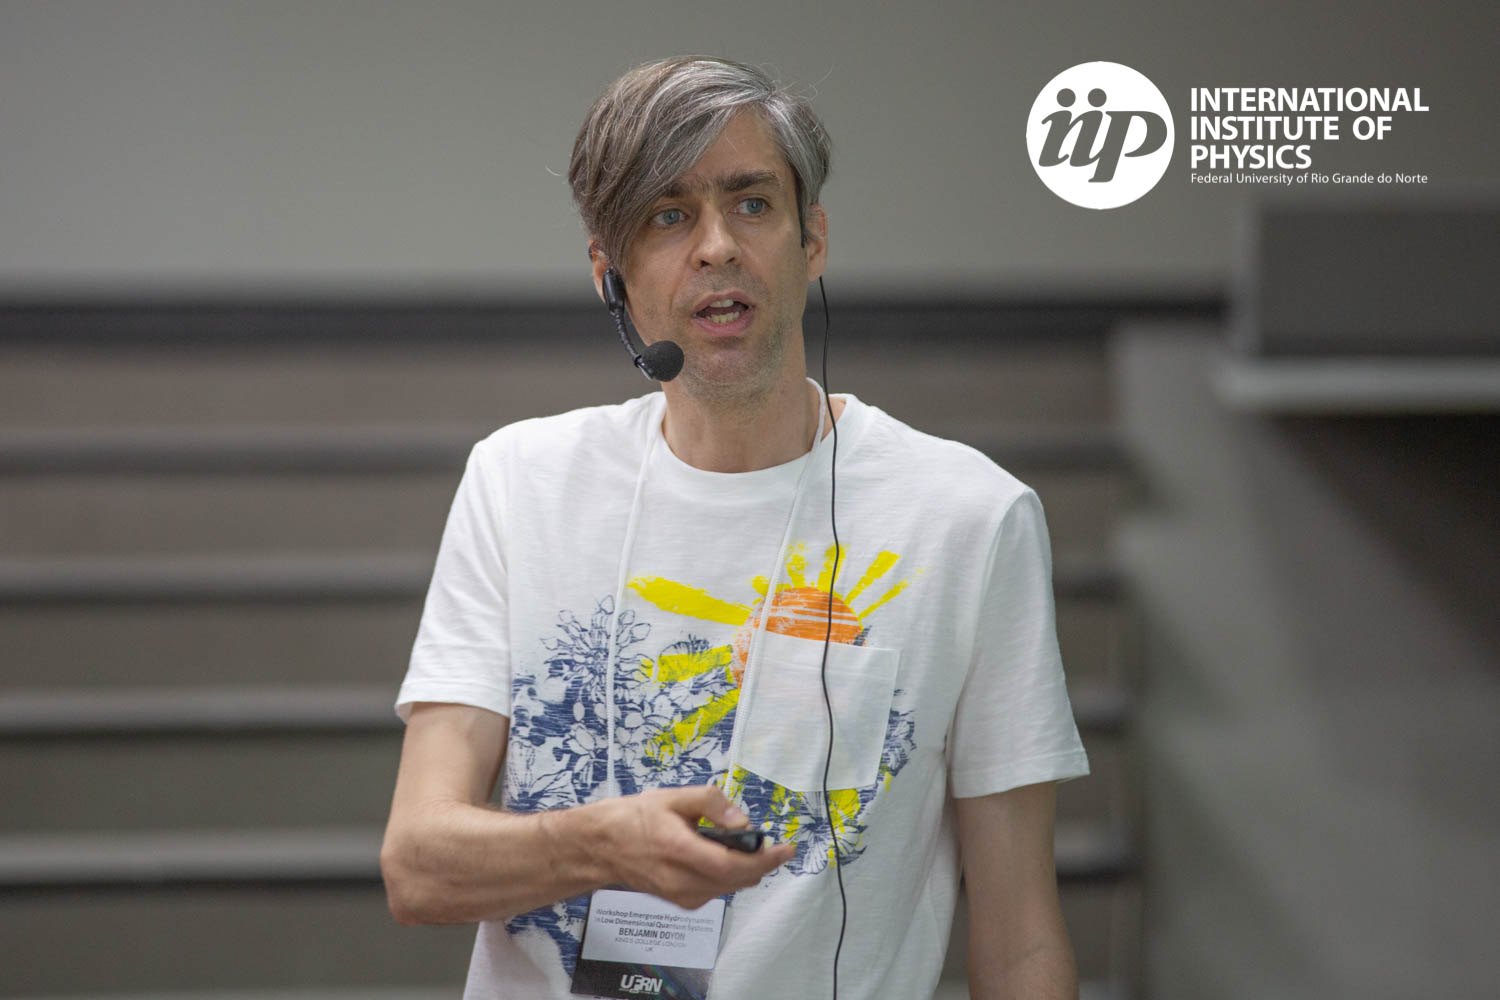
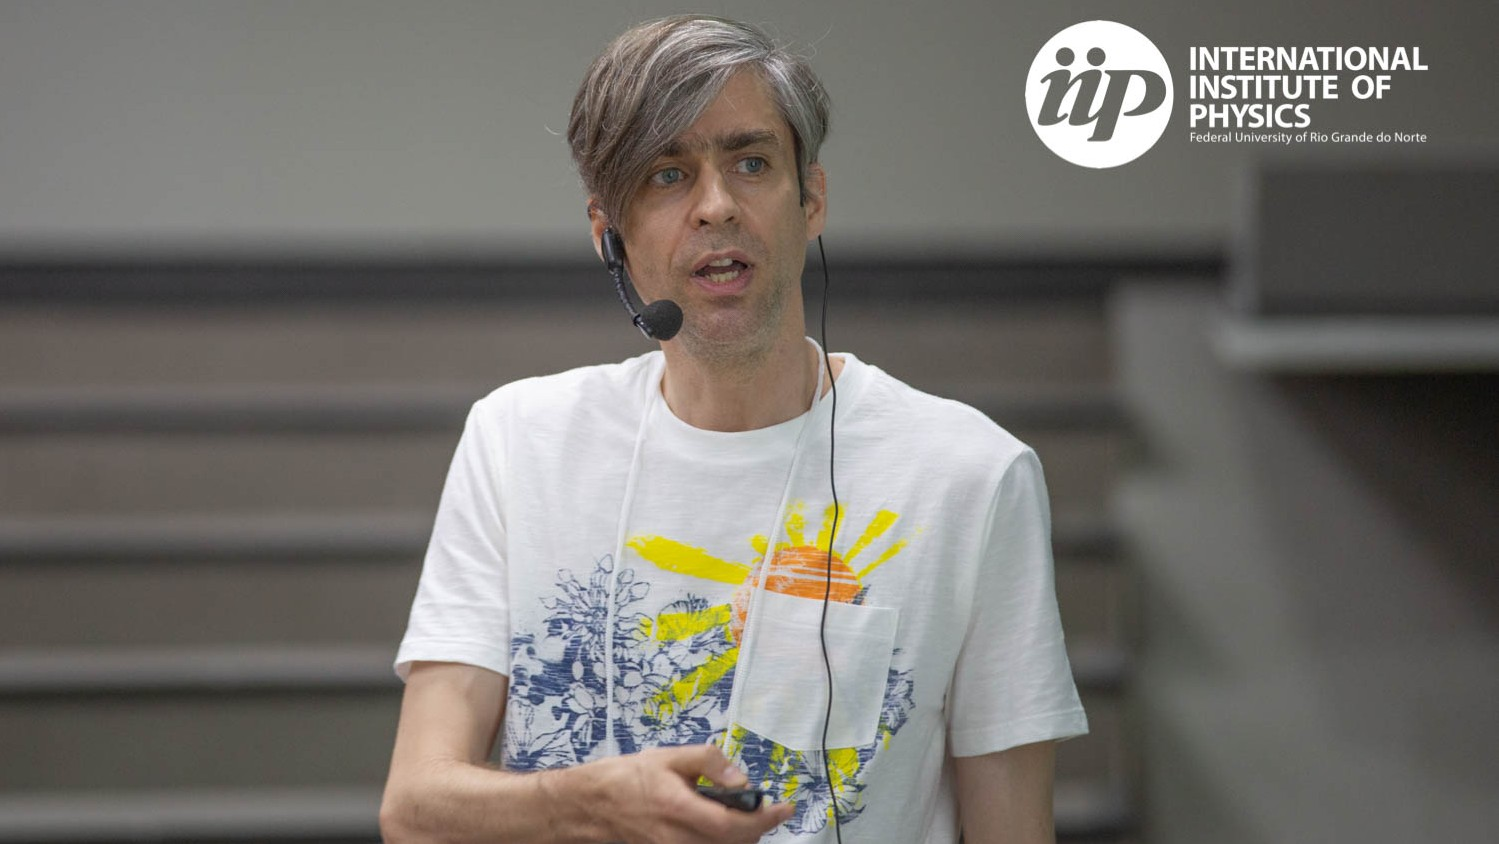
Picture corrected

diff --git a/index.html b/index.html
@@ -3420,7 +3420,7 @@
     
     
     <a href="https://www.kcl.ac.uk/noneqsys/seminars-and-videos/past-seminars-and-videos" target="_blank" rel="noopener" class="card-image hover-overlay">
-      <img src="/talks/canes/featured_hu2315cc76963bb257500ae153c89c1543_184882_550x0_resize_q75_lanczos.jpg" alt="The CANES seminar series" class="img-responsive" loading="lazy">
+      <img src="/talks/canes/featured_hu6b7664f523075193f9f11d79c1c9dcfa_44944_550x0_resize_q75_lanczos.jpg" alt="The CANES seminar series" class="img-responsive" loading="lazy">
     </a>
     
     <div class="card-text">
@@ -3518,7 +3518,7 @@
     
     
     <a href="https://www.youtube.com/watch?v=etZI4oHAcLo" target="_blank" rel="noopener" class="card-image hover-overlay">
-      <img src="/talks/izaak052021/featured_hu7d4b5516060c10e2f8cbf8aa4935c21e_19786_550x0_resize_lanczos_2.png" alt="Dissipation bounds the moments of first-passage times of dissipative currents" class="img-responsive" loading="lazy">
+      <img src="/talks/izaak052021/featured_huf22c781f95ff6faed0b3c6ae124f4b37_17826_550x0_resize_lanczos_2.png" alt="Dissipation bounds the moments of first-passage times of dissipative currents" class="img-responsive" loading="lazy">
     </a>
     
     <div class="card-text">
@@ -3567,7 +3567,7 @@
     
     
     <a href="https://www.youtube.com/watch?v=H_GvgActloM" target="_blank" rel="noopener" class="card-image hover-overlay">
-      <img src="/talks/zamponi042021/featured_hu5d27a9b1dde4561070cd73d7419e4b4f_19600_550x0_resize_q75_lanczos.jpg" alt="Mean field model of interacting quasi-localized excitations in glasses" class="img-responsive" loading="lazy">
+      <img src="/talks/zamponi042021/featured_hu6b7664f523075193f9f11d79c1c9dcfa_19172_550x0_resize_q75_lanczos.jpg" alt="Mean field model of interacting quasi-localized excitations in glasses" class="img-responsive" loading="lazy">
     </a>
     
     <div class="card-text">
@@ -3665,7 +3665,7 @@
     
     
     <a href="https://www.youtube.com/watch?v=tCr0YekLvXg" target="_blank" rel="noopener" class="card-image hover-overlay">
-      <img src="/talks/ben112019/featured_huffba528a8638888f14b55b1bd487f55d_168992_550x0_resize_lanczos_2.png" alt="Diffusion and superdiffusion from hydrodynamic projection" class="img-responsive" loading="lazy">
+      <img src="/talks/ben112019/featured_hu71f2d0fe072357e22a815fd4358cfdfb_152129_550x0_resize_lanczos_2.png" alt="Diffusion and superdiffusion from hydrodynamic projection" class="img-responsive" loading="lazy">
     </a>
     
     <div class="card-text">
@@ -3714,7 +3714,7 @@
     
     
     <a href="https://www.youtube.com/watch?v=nRN080X85Ec" target="_blank" rel="noopener" class="card-image hover-overlay">
-      <img src="/talks/ben052019/featured_huc325767b77318e3892a56c6b5d017154_121522_550x0_resize_q75_lanczos.jpg" alt="Hydrodynamics of quantum and classical integrable systems, correlations and fluctuations" class="img-responsive" loading="lazy">
+      <img src="/talks/ben052019/featured_hu65126aa4768711ebf36142523d7144b6_170210_550x0_resize_q75_lanczos.jpg" alt="Hydrodynamics of quantum and classical integrable systems, correlations and fluctuations" class="img-responsive" loading="lazy">
     </a>
     
     <div class="card-text">
@@ -3763,7 +3763,7 @@
     
     
     <a href="https://www.youtube.com/watch?v=LH9JitDAhF4" target="_blank" rel="noopener" class="card-image hover-overlay">
-      <img src="/talks/reimer052019/featured_hue34009c172c8f96d74c4b20481814224_15537_550x0_resize_q75_lanczos.jpg" alt="Spectra of Large Random Stochastic Matrices and relaxation in complex systems" class="img-responsive" loading="lazy">
+      <img src="/talks/reimer052019/featured_hu6b7664f523075193f9f11d79c1c9dcfa_21299_550x0_resize_q75_lanczos.jpg" alt="Spectra of Large Random Stochastic Matrices and relaxation in complex systems" class="img-responsive" loading="lazy">
     </a>
     
     <div class="card-text">

diff --git a/talks/ben052019/index.html b/talks/ben052019/index.html
@@ -890,9 +890,9 @@
 </div>
 
 
-<div class="article-header article-container featured-image-wrapper mt-4 mb-4" style="max-width: 720px; max-height: 480px;">
+<div class="article-header article-container featured-image-wrapper mt-4 mb-4" style="max-width: 720px; max-height: 405px;">
   <div style="position: relative">
-    <img src="/talks/ben052019/featured_huc325767b77318e3892a56c6b5d017154_121522_720x0_resize_q75_lanczos.jpg" alt="" class="featured-image">
+    <img src="/talks/ben052019/featured_hu65126aa4768711ebf36142523d7144b6_170210_720x0_resize_q75_lanczos.jpg" alt="" class="featured-image">
     
   </div>
 </div>

diff --git a/talks/zamponi042021/index.html b/talks/zamponi042021/index.html
@@ -888,7 +888,7 @@
 </div>
 
 
-<div class="article-header article-container featured-image-wrapper mt-4 mb-4" style="max-width: 295px; max-height: 152px;">
+<div class="article-header article-container featured-image-wrapper mt-4 mb-4" style="max-width: 271px; max-height: 152px;">
   <div style="position: relative">
     <img src="/talks/zamponi042021/featured.jpg" alt="" class="featured-image">
     

diff --git a/talks/reimer052019/index.html b/talks/reimer052019/index.html
@@ -904,7 +904,7 @@
 </div>
 
 
-<div class="article-header article-container featured-image-wrapper mt-4 mb-4" style="max-width: 225px; max-height: 225px;">
+<div class="article-header article-container featured-image-wrapper mt-4 mb-4" style="max-width: 225px; max-height: 127px;">
   <div style="position: relative">
     <img src="/talks/reimer052019/featured.jpg" alt="" class="featured-image">
     

diff --git a/talks/izaak052021/index.html b/talks/izaak052021/index.html
@@ -888,7 +888,7 @@
 </div>
 
 
-<div class="article-header article-container featured-image-wrapper mt-4 mb-4" style="max-width: 590px; max-height: 196px;">
+<div class="article-header article-container featured-image-wrapper mt-4 mb-4" style="max-width: 347px; max-height: 196px;">
   <div style="position: relative">
     <img src="/talks/izaak052021/featured.png" alt="" class="featured-image">
     

diff --git a/talks/ben112019/index.html b/talks/ben112019/index.html
@@ -888,7 +888,7 @@
 </div>
 
 
-<div class="article-header article-container featured-image-wrapper mt-4 mb-4" style="max-width: 400px; max-height: 249px;">
+<div class="article-header article-container featured-image-wrapper mt-4 mb-4" style="max-width: 400px; max-height: 225px;">
   <div style="position: relative">
     <img src="/talks/ben112019/featured.png" alt="" class="featured-image">
     

diff --git a/talks/canes/index.html b/talks/canes/index.html
@@ -888,7 +888,7 @@
 </div>
 
 
-<div class="article-header article-container featured-image-wrapper mt-4 mb-4" style="max-width: 680px; max-height: 280px;">
+<div class="article-header article-container featured-image-wrapper mt-4 mb-4" style="max-width: 497px; max-height: 280px;">
   <div style="position: relative">
     <img src="/talks/canes/featured.jpg" alt="" class="featured-image">
     
